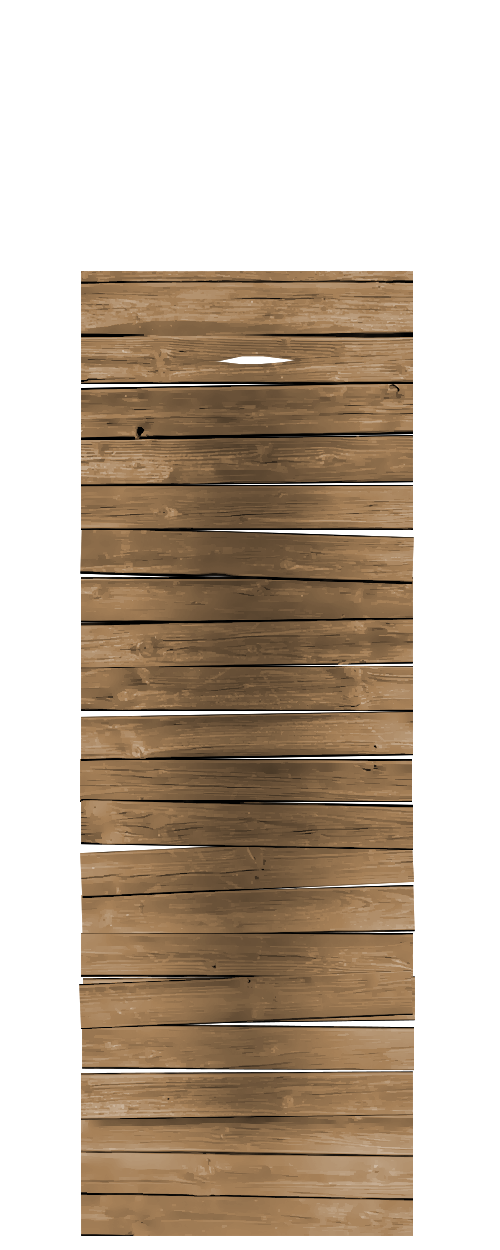
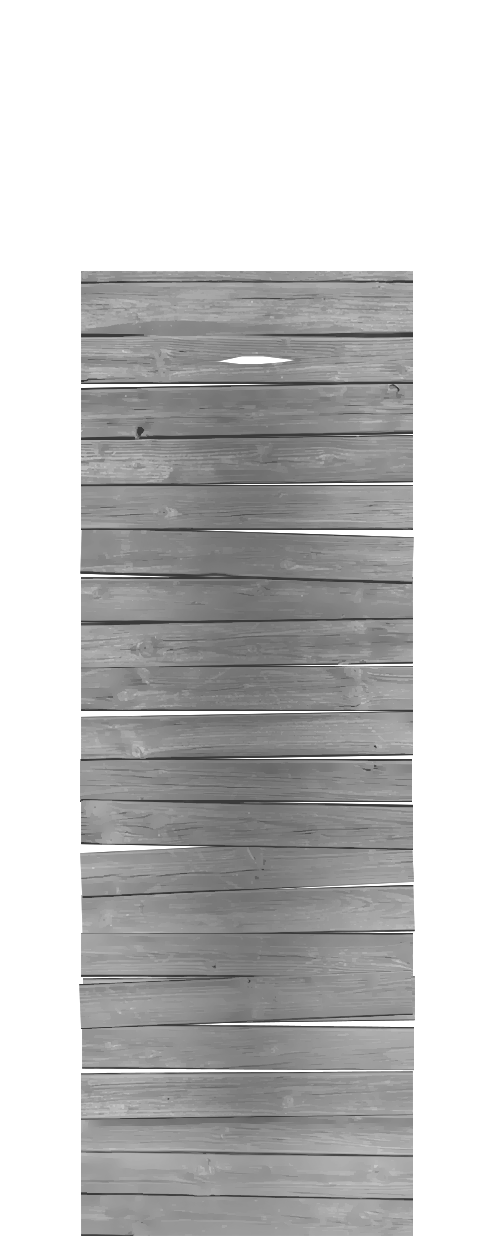
Medieval rack colorable wood (#3475)
* Created WoodenRack Asset

Added Frame art
Added Color Layers
Added Dialog
Added Asset
Added Asset Extended Config (TODO)

* Added Restraint functionality & art, Fixes

* Added: 2layer stocks Fix: Priority Removed:Stocks2

TODO
Fix every single chain asset

* Updated Chains

* Uploaded all the needed assets. Mainly done

* Updated price

* Small fixes

* Removed wrong effect and format fixes

* Uppercase fix

* Removed Stains module. Renamed assets acordingly

* Difficulty changed for all the asset. Added Time

* Fixed dialog Name error

* Small dialog fix

* Identation fixes, added OverrideHeight

* Added AllowLock to Modules

* Removed uneeded lines

* Added the ability to color the wood frame and bed

diff --git a/BondageClub/Assets/Female3DCG/Female3DCG.js b/BondageClub/Assets/Female3DCG/Female3DCG.js
@@ -6569,17 +6569,18 @@ var AssetFemale3DCG = [
 				]
 			},
 			{
-				Name: "WoodenRack", Value: 180, Priority: 1, Difficulty: 0, RemoveTime: 5, Time: 5, SelfBondage: 0, Random: false, RemoveAtLogin: true, DefaultColor: ["#372D24", "#BB895D", "Default"], Extended: true, AlwaysExtend: true, BuyGroup: "WoodenRack",
+				Name: "WoodenRack", Value: 180, Priority: 1, Difficulty: 0, RemoveTime: 5, Time: 5, SelfBondage: 0, Random: false, RemoveAtLogin: true, DefaultColor: ["#866949", "#875D37", "#372D24", "#BB895D", "Default"], Extended: true, AlwaysExtend: true, BuyGroup: "WoodenRack",
 				OverrideHeight: { Height: 0, HeightRatioProportion: 1, Priority: 21 },
 				Effect: ["Freeze", "Mounted", "OnBed"],
 				Prerequisite: ["AllFours", "NotSuspended", "NotHogtied"],
 				SetPose: ["BaseLower"],
 				Block: ["ItemAddon"],
 				Layer: [
-					{ Name: "Back", HasType: false, AllowColorize: false, AllowModuleTypes: ["f0", "f1"] },
-					{ Name: "HalfBack", HasType: false, AllowColorize: false, AllowModuleTypes: ["f2"] },
+					{ Name: "Back", HasType: false, AllowModuleTypes: ["f0", "f1"] },
+					{ Name: "HalfBack", HasType: false, CopyLayerColor: "Back", AllowModuleTypes: ["f2"] },
 					{ Name: "NoBack", HasType: false, AllowColorize: false, AllowModuleTypes: ["f3"], HasImage: false },
-					{ Name: "Frame", HasType: false, AllowColorize: false },
+					{ Name: "FrameWood", HasType: false, AllowColorize: true },
+					{ Name: "FrameMetal", HasType: false, AllowColorize: false },
 					{ Name: "FrameStains", HasType: false, AllowModuleTypes: ["f1"] },
 					{ Name: "TopRopes", HasType: false, AllowModuleTypes: ["t1"], Priority: 50 },
 					{ Name: "TopRopesTight", HasType: false, CopyLayerColor: "TopRopes", AllowModuleTypes: ["t2"], Priority: 50 },
